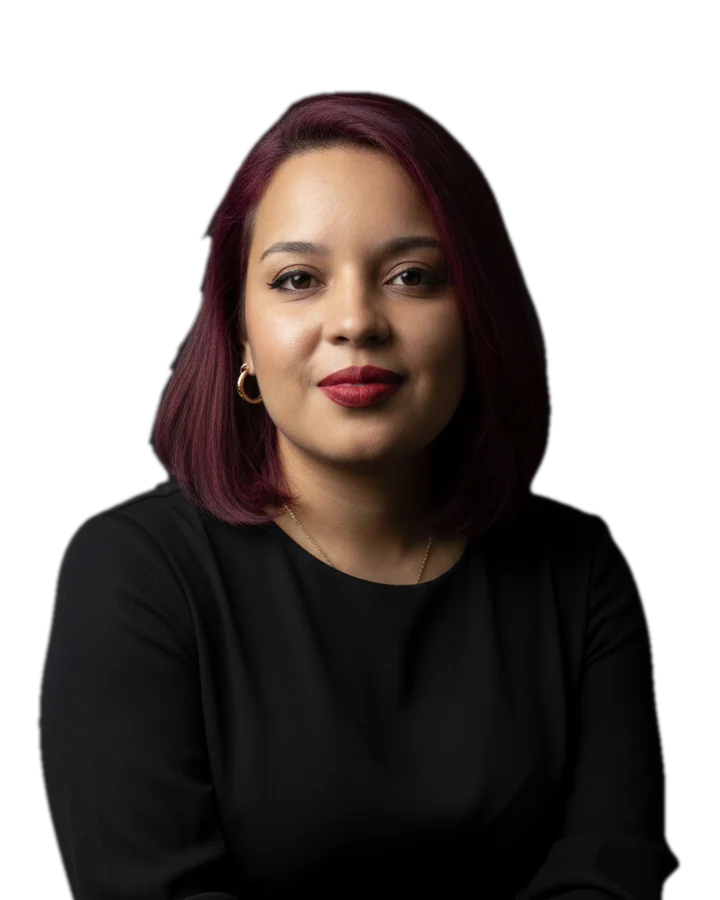
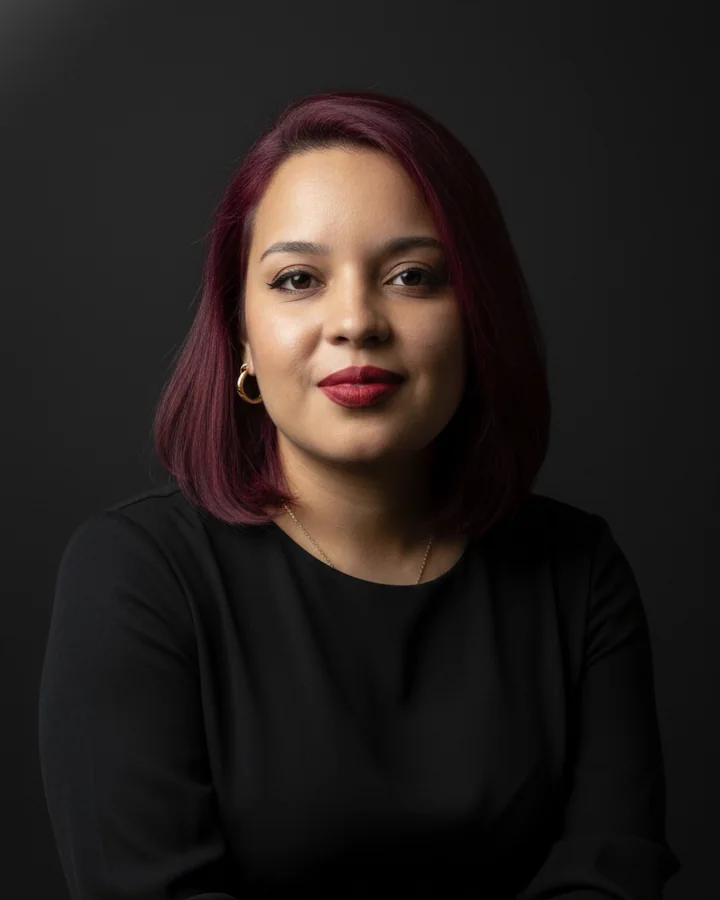
Time: volta às fotos originais, sem recorte nem degradê

diff --git a/src/index.css b/src/index.css
@@ -418,6 +418,5 @@ input:focus-visible, textarea:focus-visible, select:focus-visible { outline: non
   [data-rv="0"] { filter: none; }
 }
 
-/* Time (09/11/2026): foto recortada sobre degradê roxo suave, com luz por trás da cabeça. */
-.time-foto { background: radial-gradient(70% 55% at 50% 38%, hsl(280 90% 80% / .55), transparent 70%), linear-gradient(180deg, hsl(275 60% 94%), hsl(280 45% 86%)); }
-.time-foto::after { content: ""; position: absolute; inset: auto 0 0 0; height: 18%; background: linear-gradient(0deg, hsl(0 0% 100% / .35), transparent); pointer-events: none; }
+/* Time (09/11/2026): fotos originais, sem tratamento de fundo. */
+.time-foto { background: hsl(240 6% 90%); }
